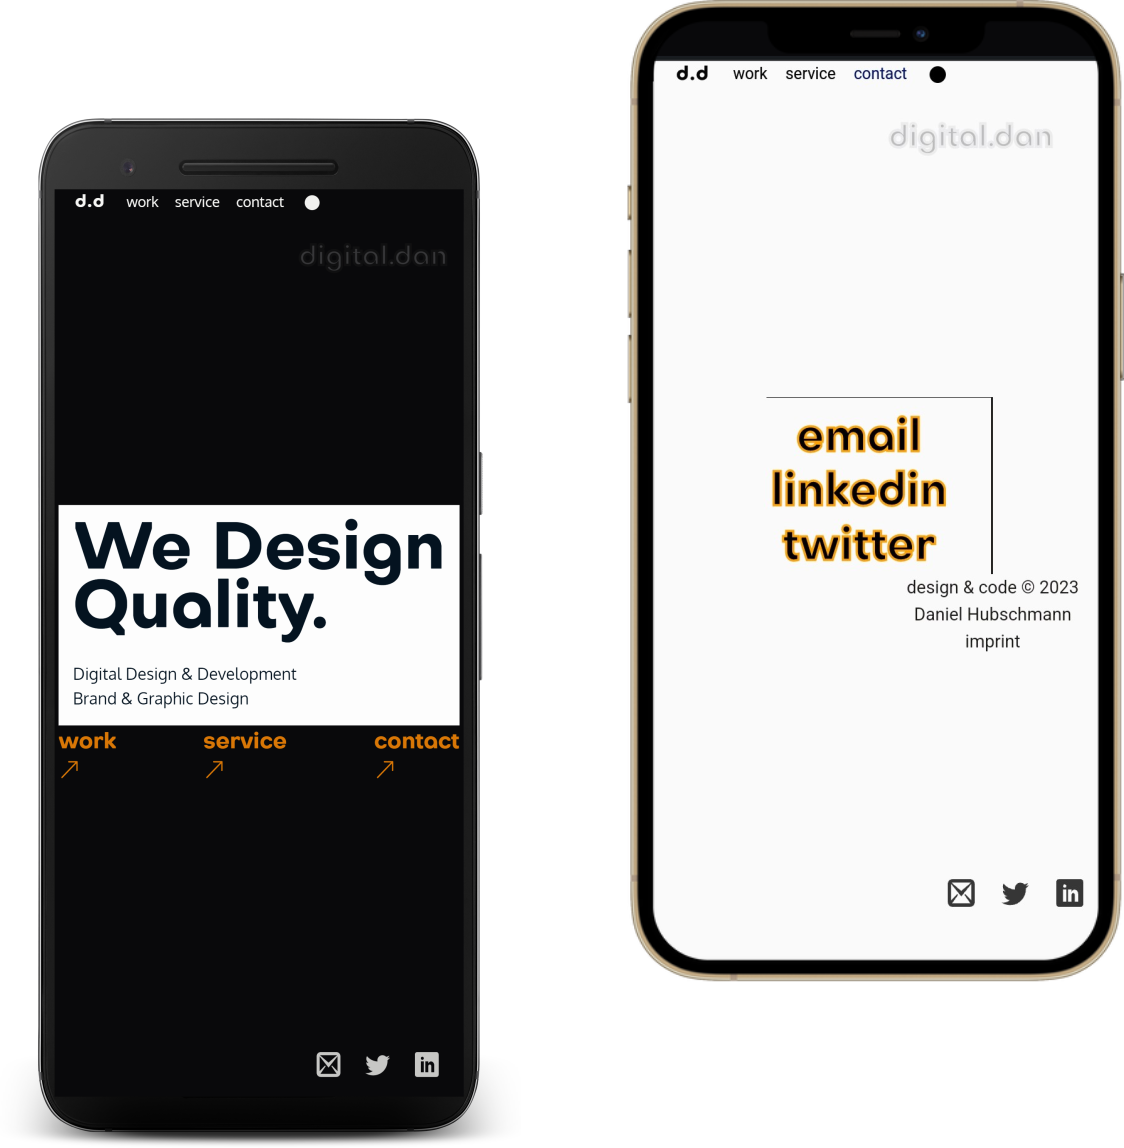
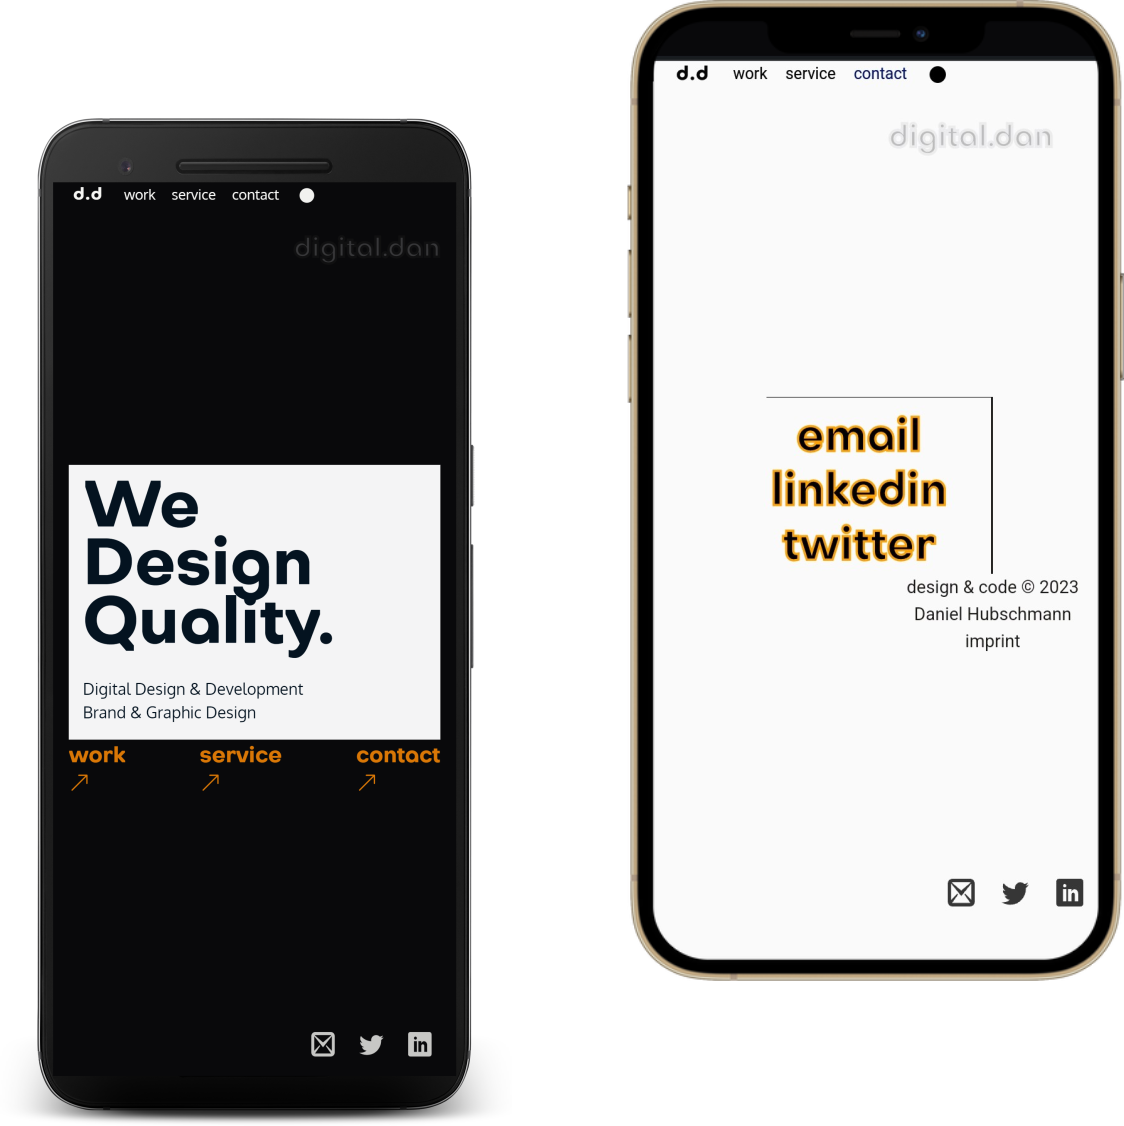
hero update

diff --git a/components/Hero.js b/components/Hero.js
@@ -23,23 +23,20 @@ const Hero = () => {
         transition: { delay: 1.1, duration: 0.75 }
 
     }
-
-
     return (
         <main className="h-screen flex flex-col 
         justify-center items-center">
-            <motion.section className="z-50">
+            <motion.section className="z-50 w-full px-[1rem] md:px-[2rem]">
 
-                <section className="paragraph dark:bg-[#fdfdfd] bg-[#09090b] py-5">
+                <section className="paragraph bg-orange-500 dark:bg-zinc-100">
 
-                    <div className="dark:text-[#041320] text-[#fff]">
+                    <div className="text-[#041320]">
                         <motion.h1 animate={wedesignAnimate} className="heroheader font-bold">We Design</motion.h1>
                         <motion.h1 animate={wedesignAnimate2} className="heroheader font-bold">Quality.</motion.h1>
                         <br />
                         <motion.h2 animate={servicesAnimate}>
                             Digital Design & Development<br />
                             Brand & Graphic Design</motion.h2></div>
-
                 </section>   <motion.section animate={wedesignAnimate2}
                     className="flex flex-row justify-between herolinks font-bold">
 
